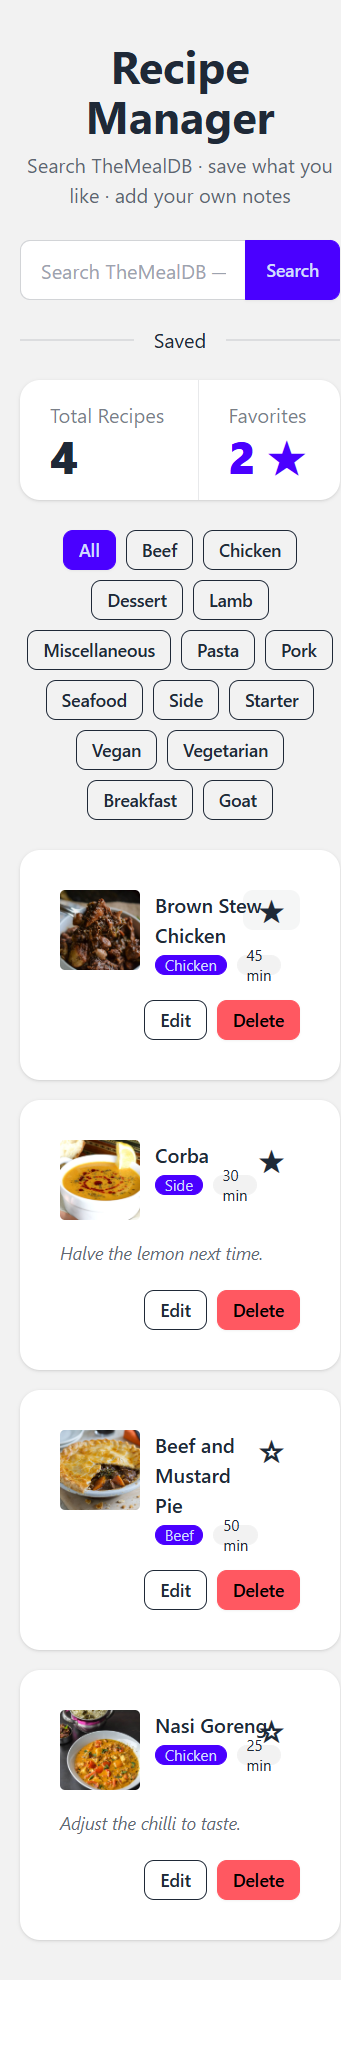
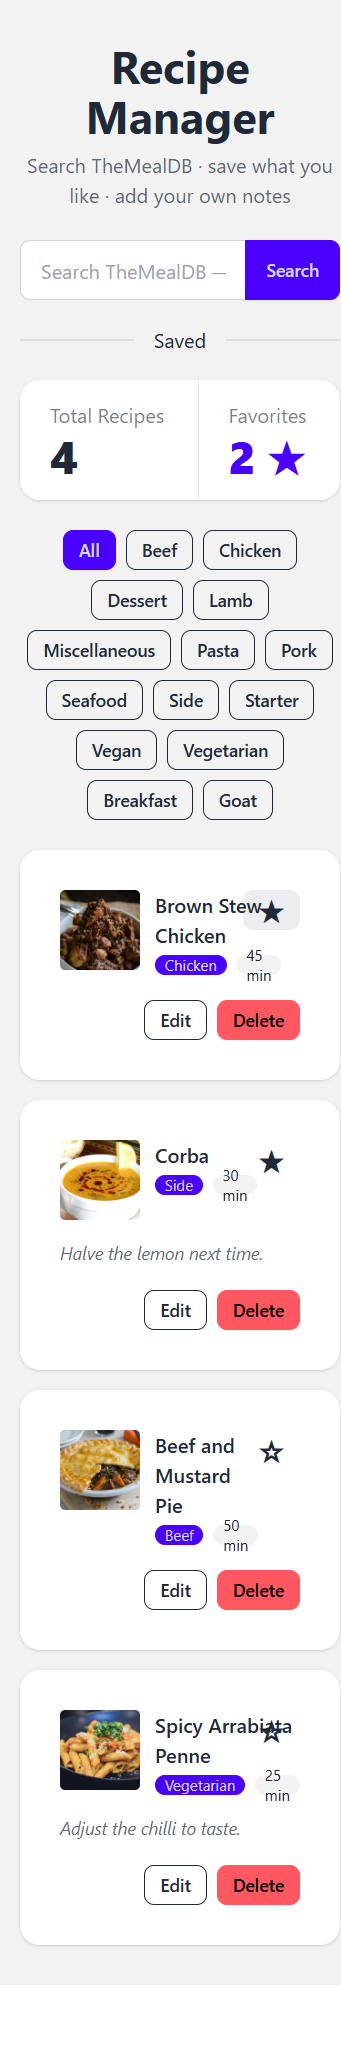
chore: clean build

diff --git a/src/features/meals/meals.api.ts b/src/features/meals/meals.api.ts
@@ -6,10 +6,10 @@ import type { Meal, Recipe, SearchResponse, CategoriesResponse } from "./meals.t
 //
 // This file is the edge. TheMealDB's ugliness (idMeal, strMeal, strCategory,
 // strIngredient1 ... strIngredient20) stops here and never reaches a component.
-// The types in meals.types.ts are already written for you — read them first.
+// The types in meals.types.ts keep this boundary explicit.
 // ---------------------------------------------------------------------------
 
-// TODO 1 — Normalise one Meal into our Recipe shape.
+// Normalise one Meal into our Recipe shape.
 //
 // Rules (and the compiler will hold you to the Recipe type):
 //   mealId      <- idMeal      keep it: you need it to avoid saving duplicates
@@ -17,7 +17,7 @@ import type { Meal, Recipe, SearchResponse, CategoriesResponse } from "./meals.t
 //   category    <- strCategory
 //   thumb       <- strMealThumb
 //   ingredients <- the strIngredient1..20 values that are not empty or null.
-//                  Twenty numbered keys is not a shape any component should
+//                  Twenty numbered keys is not a shape components should
 //                  have to loop over. A type predicate keeps it string[]:
 //                    .filter((x): x is string => Boolean(x && x.trim()))
 //   time        <- 0     TheMealDB has no prep time. The user supplies it.
@@ -42,7 +42,7 @@ export function toRecipe(meal: Meal): Recipe {
   };
 }
 
-// TODO 2 — Search the catalogue.
+// Search the catalogue.
 //
 //   GET /search.php?s=<query>
 //
@@ -56,7 +56,7 @@ export function toRecipe(meal: Meal): Recipe {
 //      precisely so you cannot forget.
 //   2. Return mapped Recipes, not raw Meals.
 //
-// Verify with curl before you write any React:
+// Verify the successful empty-result response before connecting the hooks:
 //   curl "https://www.themealdb.com/api/json/v1/1/search.php?s=zzzznotathing"
 export async function searchMeals(query: string): Promise<Recipe[]> {
   const { data } = await mealdb.get<SearchResponse>("/search.php", {
@@ -66,7 +66,7 @@ export async function searchMeals(query: string): Promise<Recipe[]> {
   return (data.meals ?? []).map(toRecipe);
 }
 
-// TODO 3 — The real category list.
+// Return the real category list.
 //
 //   GET /categories.php  ->  { categories: [ { strCategory: "Beef" }, ... ] }
 //

diff --git a/src/components/SearchBar.tsx b/src/components/SearchBar.tsx
@@ -16,7 +16,7 @@ export default function SearchBar({ onSearch }: SearchBarProps) {
     inputRef.current?.focus();
   }, []);
 
-  // React.FormEvent, not `any`. The compiler knows what preventDefault is.
+  // Typing the form event keeps preventDefault checked by TypeScript.
   const handleSubmit = (e: React.FormEvent<HTMLFormElement>) => {
     e.preventDefault();
     const trimmed = term.trim();

diff --git a/src/features/meals/meals.types.ts b/src/features/meals/meals.types.ts
@@ -8,7 +8,7 @@ export interface Meal {
   strMeal: string;
   strCategory: string;
   strMealThumb: string;
-  // strIngredient1..20 and strMeasure1..20, any of which may be "" or null.
+  // strIngredient1..20 and strMeasure1..20 may be empty or null.
   [key: string]: string | null;
 }
 

diff --git a/tailwind.config.js b/tailwind.config.js
@@ -1,6 +1,6 @@
 /** @type {import('tailwindcss').Config} */
 export default {
-  content: ["./index.html", "./src/**/*.{js,jsx}"],
+  content: ["./index.html", "./src/**/*.{js,jsx,ts,tsx}"],
   theme: {
     extend: {},
   },
